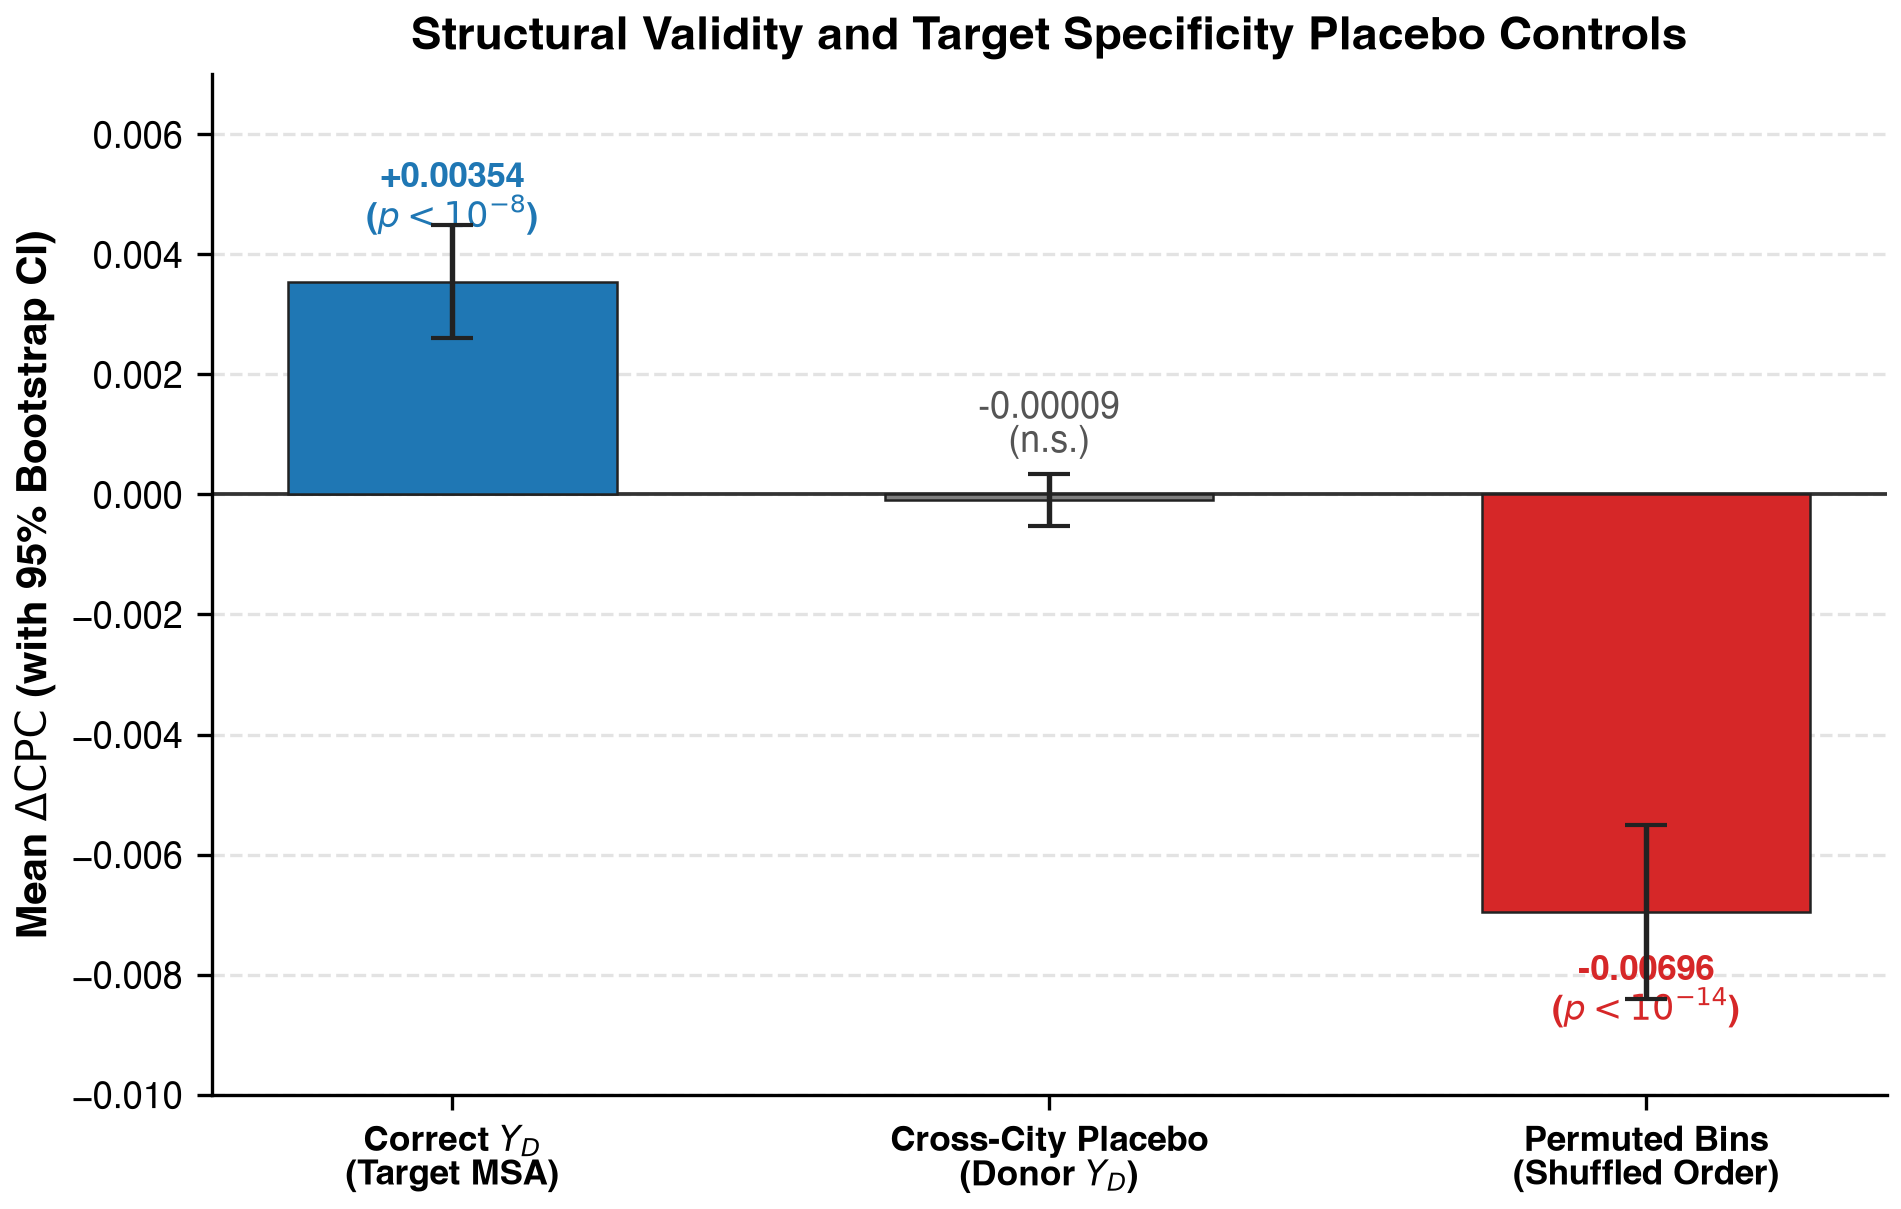
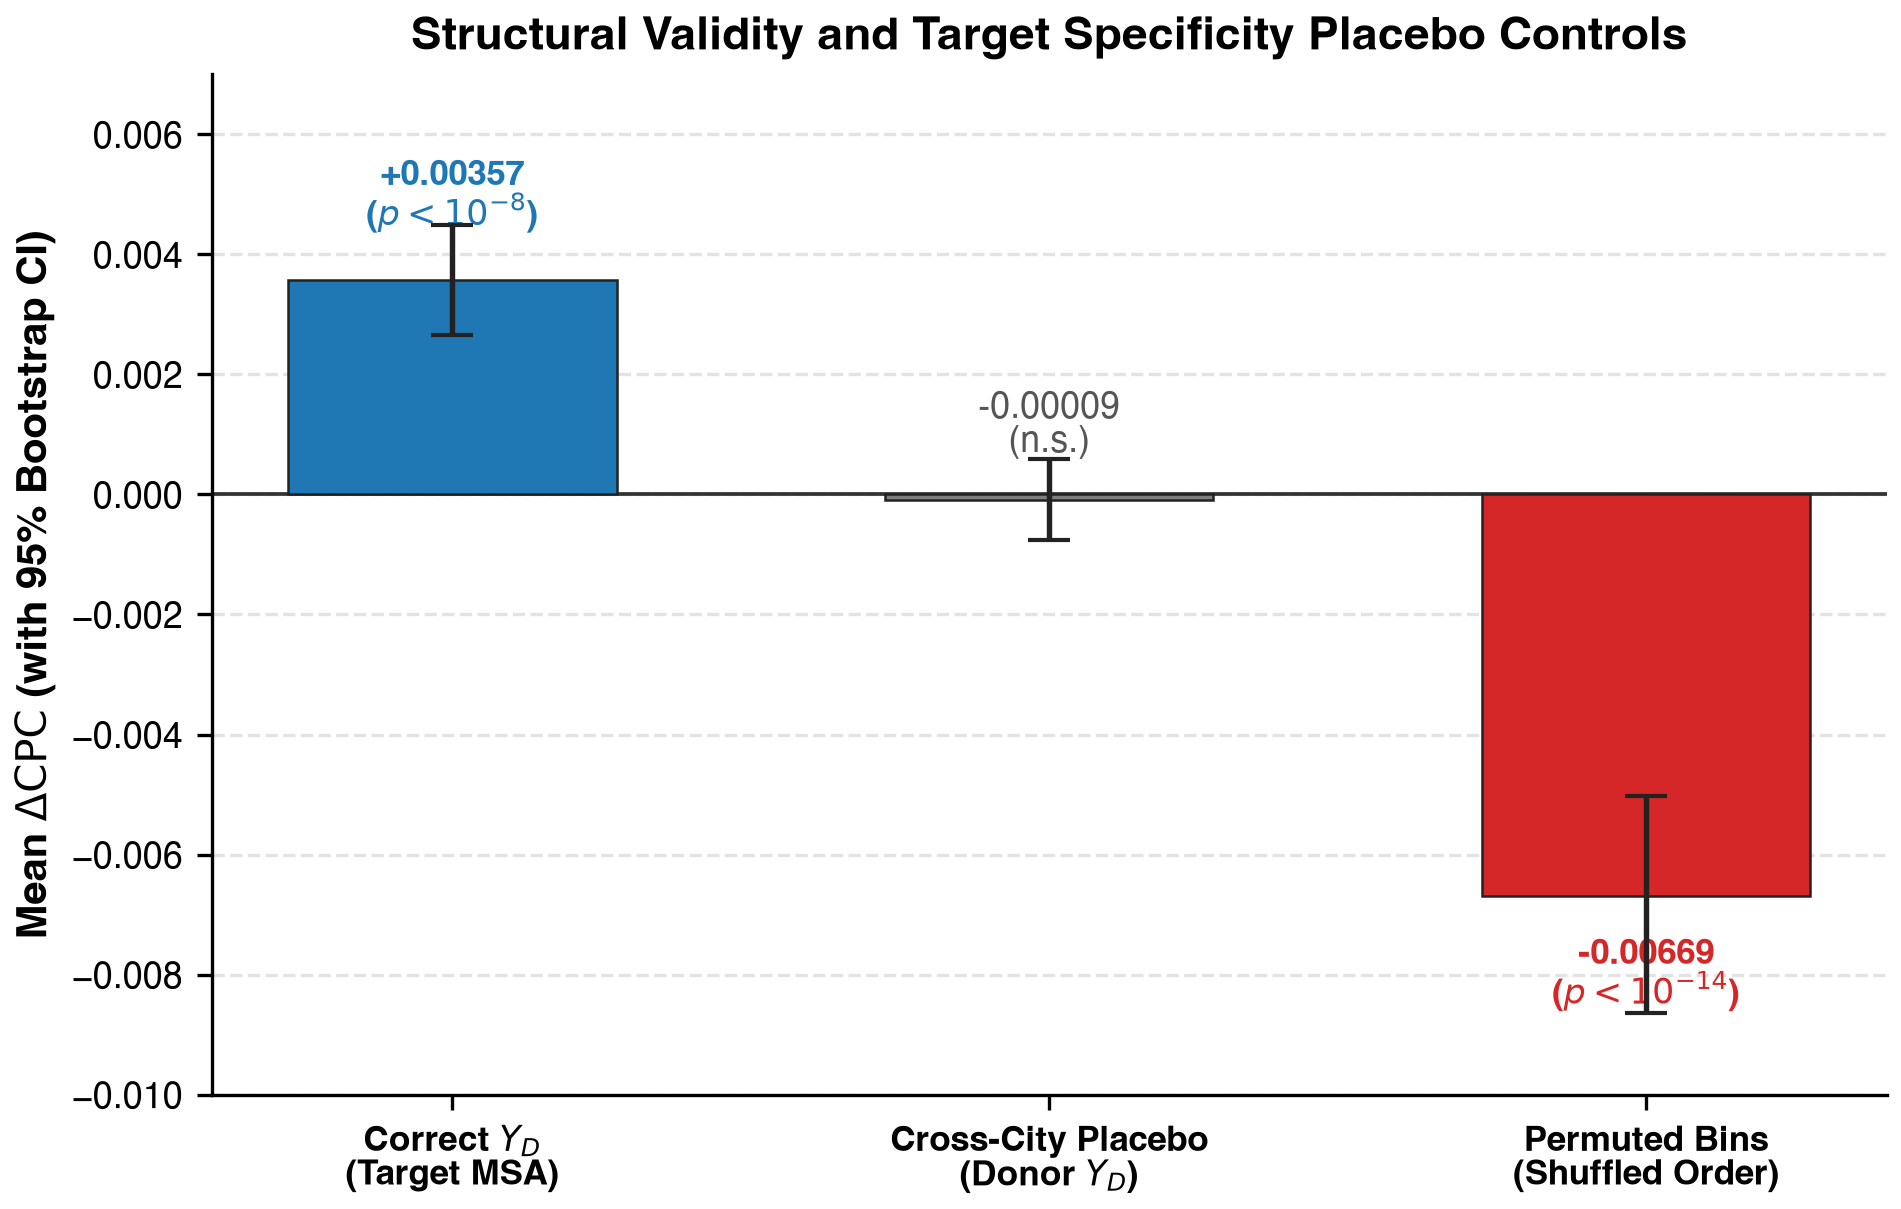
up

diff --git a/scripts/generate_all_paper_figures.py b/scripts/generate_all_paper_figures.py
@@ -217,10 +217,25 @@ def generate_figure4():
 
 def generate_figure5():
     """Figure 5: Structural Validity and Specificity Controls (Correct vs Permuted vs Donor Placebo)."""
+    csv_path = Path("results/placebo_matched_v2/matched_placebo_per_city.csv")
+    df = pd.read_csv(csv_path)
+
+    def bootstrap_ci(values: np.ndarray, folds: np.ndarray) -> tuple[float, float]:
+        rng = np.random.default_rng(2024)
+        boot_means = np.empty(10_000, dtype=np.float64)
+        unique_folds = sorted(np.unique(folds))
+        for index in range(len(boot_means)):
+            samples = [rng.choice(values[folds == fold], size=np.sum(folds == fold), replace=True) for fold in unique_folds]
+            boot_means[index] = np.mean(np.concatenate(samples))
+        return tuple(np.percentile(boot_means, [2.5, 97.5]))
+
     conditions = ["Correct $Y_D$\n(Target MSA)", "Cross-City Placebo\n(Donor $Y_D$)", "Permuted Bins\n(Shuffled Order)"]
-    means = [+0.003539, -0.000091, -0.006958]
-    ci_low = [+0.002607, -0.000520, -0.008400]
-    ci_high = [+0.004483, +0.000340, -0.005500]
+    columns = ["target_delta_mean", "wrong_delta_mean", "permuted_delta_mean"]
+    values = [df[column].to_numpy(dtype=np.float64) for column in columns]
+    means = [float(value.mean()) for value in values]
+    confidence_intervals = [bootstrap_ci(value, df["fold"].to_numpy()) for value in values]
+    ci_low = [interval[0] for interval in confidence_intervals]
+    ci_high = [interval[1] for interval in confidence_intervals]
 
     yerr_low = np.array(means) - np.array(ci_low)
     yerr_high = np.array(ci_high) - np.array(means)
@@ -239,7 +254,7 @@ def generate_figure5():
     ax.grid(axis="y", linestyle="--", alpha=0.35)
 
     # Annotations
-    ax.text(0, means[0] + 0.0009, f"+{means[0]:.5f}\n($p < 10^{{-8}}$)", ha="center", fontsize=8.5, fontweight="bold", color=PRIMARY_BLUE)
+    ax.text(0, means[0] + 0.0009, f"{means[0]:+.5f}\n($p < 10^{{-8}}$)", ha="center", fontsize=8.5, fontweight="bold", color=PRIMARY_BLUE)
     ax.text(1, means[1] + 0.0008, f"{means[1]:.5f}\n(n.s.)", ha="center", fontsize=8.5, color="#555555")
     ax.text(2, means[2] - 0.0018, f"{means[2]:.5f}\n($p < 10^{{-14}}$)", ha="center", fontsize=8.5, fontweight="bold", color=MUTED_RED)
 

diff --git a/paper/section4_results.md b/paper/section4_results.md
@@ -55,7 +55,7 @@ In addition to tests using alternative distributions from other sources, we cond
 ---
 
 ![Figure 5](figures/fig5_structural_validity_placebo.png)
-**Figure 5 | Structural validity and target specificity placebo controls.** Comparison of mean reconstruction gain $\Delta\mathrm{CPC}$ across $N=50$ test cities under three experimental conditions: (1) authentic target-city distribution ($Y_D$, $+0.00354$, $p < 10^{-8}$); (2) dose-matched cross-city donor placebo ($-0.00009$, not significant); and (3) permuted distance bins ($-0.00696$, $p < 10^{-14}$). Error bars represent 95% fold-stratified bootstrap confidence intervals.
+**Figure 5 | Fair matched placebo controls.** Comparison of mean reconstruction gain $\Delta\mathrm{CPC}$ across $N=50$ test cities under three conditions from the fair matched placebo branch: (1) authentic target-city distribution ($Y_D$, $+0.00357$, $p < 10^{-8}$); (2) dose-matched cross-city donor placebo ($-0.00009$, not significant); and (3) permuted distance bins ($-0.00669$, $p < 10^{-14}$). Error bars represent 95% fold-stratified bootstrap confidence intervals over city-level values. This robustness visualization is distinct from the primary unified placebo estimates reported in Table 2.
 
 ---
 
